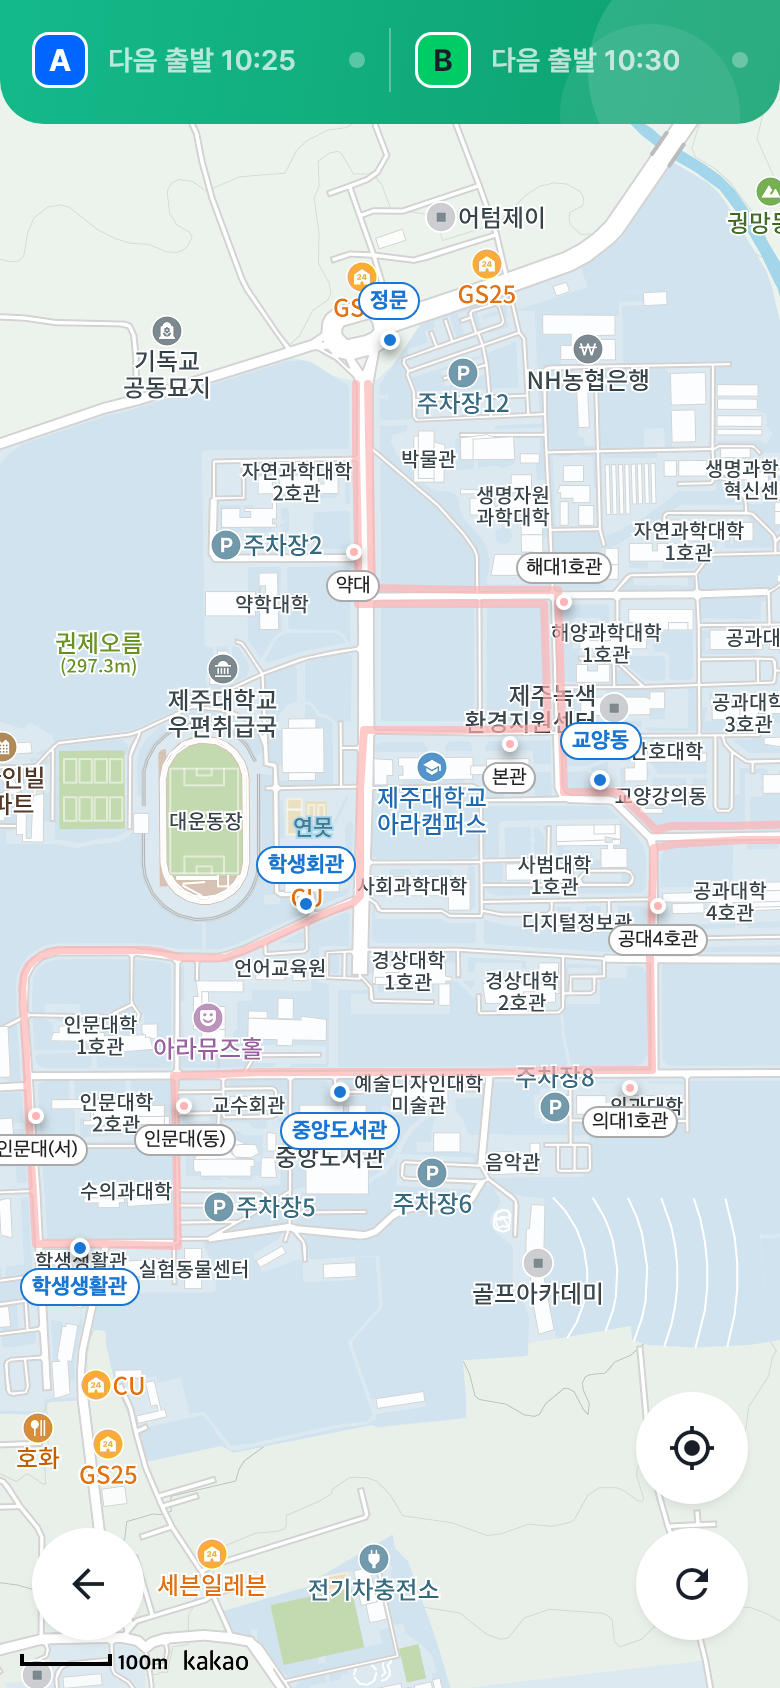
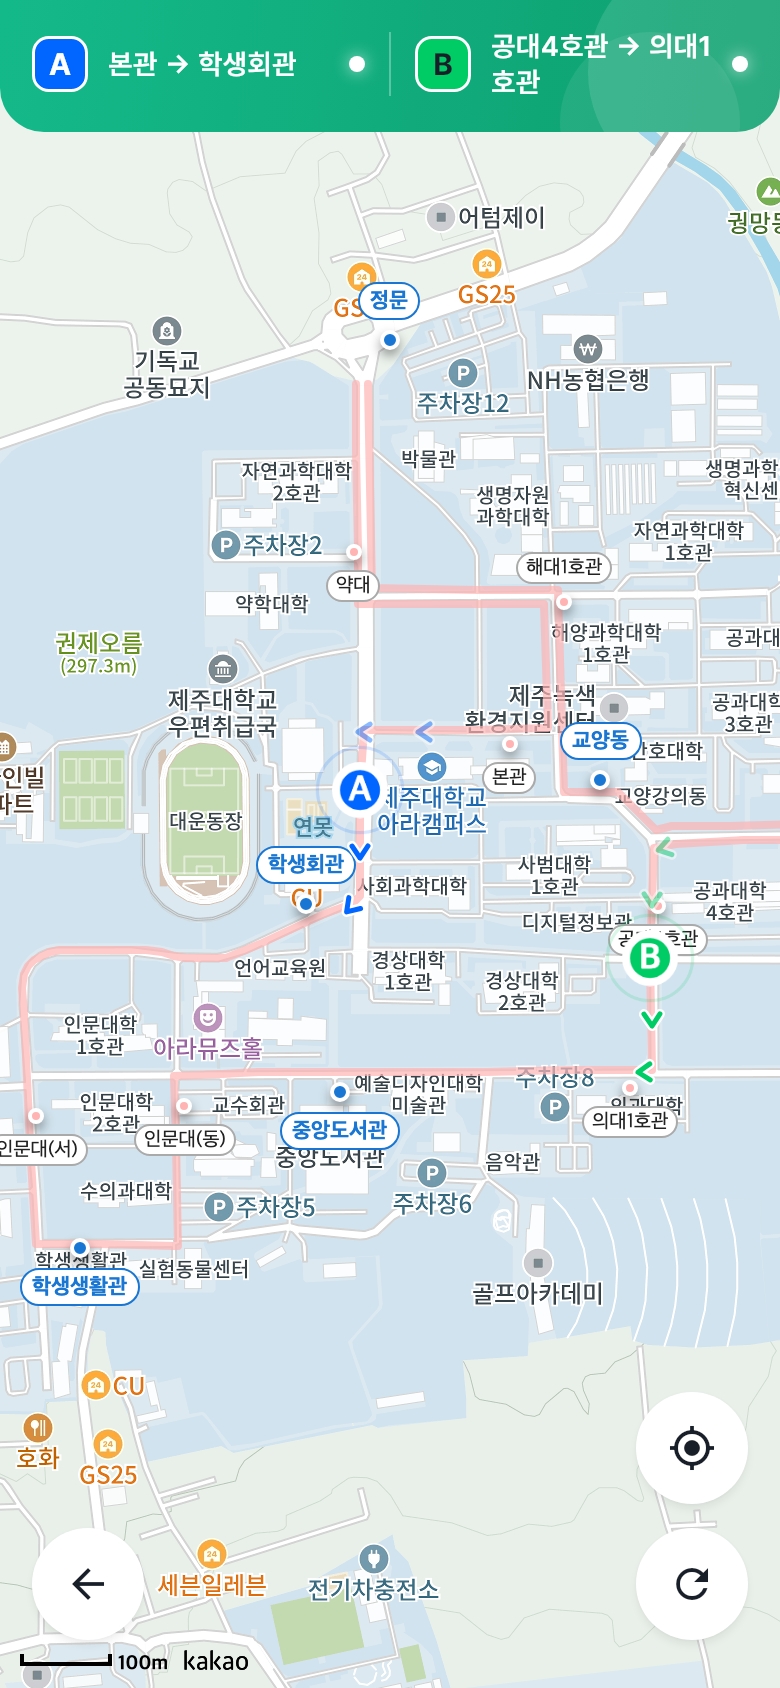
README: 지도 화면을 A·B 버스가 보이는 사진으로 교체

diff --git a/README.md b/README.md
@@ -34,15 +34,16 @@
 
 | 1. 홈 | 2. ≡ 메뉴 | 3. 실시간 버스 지도 |
 | :---: | :---: | :---: |
-| <img src="docs/screens/home.png" width="250" alt="홈 화면: 내 시간표와 별표한 정류장 버스 도착 시각"> | <img src="docs/screens/drawer.png" width="250" alt="메뉴: 포털, 학사일정, 공지사항, 학식 메뉴"> | <img src="docs/screens/map.png" width="250" alt="카카오 지도 위 셔틀 노선과 정류장"> |
-| 내 시간표 + 별표한 정류장 도착 시각 | 포털 · 학사일정 · 공지 · 학식으로 이동 | A·B코스 노선과 다음 출발 시각 |
+| <img src="docs/screens/home.png" width="250" alt="홈 화면: 내 시간표와 별표한 정류장 버스 도착 시각"> | <img src="docs/screens/drawer.png" width="250" alt="메뉴: 포털, 학사일정, 공지사항, 학식 메뉴"> | <img src="docs/screens/map.png" width="250" alt="카카오 지도 위를 달리는 A·B 셔틀버스"> |
+| 내 시간표 + 별표한 정류장 도착 시각 | 포털 · 학사일정 · 공지 · 학식으로 이동 | A·B 버스 위치와 진행 방향 (3초마다 갱신) |
 
 | 4. 학사일정 | 5. 공지사항 | 6. 학식 메뉴 |
 | :---: | :---: | :---: |
 | <img src="docs/screens/schedule.png" width="250" alt="학사일정 달력"> | <img src="docs/screens/notice.png" width="250" alt="공지사항 목록"> | <img src="docs/screens/menu.png" width="250" alt="식당별 이번 주 식단"> |
 | 달력 + 날짜별 일정, D-day 표시 | 분류별 공지, 최근 3일 새 글 개수 | 식당 5곳의 날짜별 식단 |
 
-> 시간표는 예시로 넣은 수업이고, 버스 카드가 잘 보이도록 평일 오전 10시 20분 기준으로 찍었어요. 공지·학식·학사일정은 실제 데이터예요.
+> 시간표는 예시로 넣은 수업이고, 버스 카드가 잘 보이도록 평일 오전 10시 20분 기준으로 찍었어요.
+> 지도의 버스 위치는 운행 시간이 아닐 때 찍어서 예시 위치를 넣었어요. 공지·학식·학사일정은 실제 데이터예요.
 
 ## 데이터는 어떻게 오나요?
 
